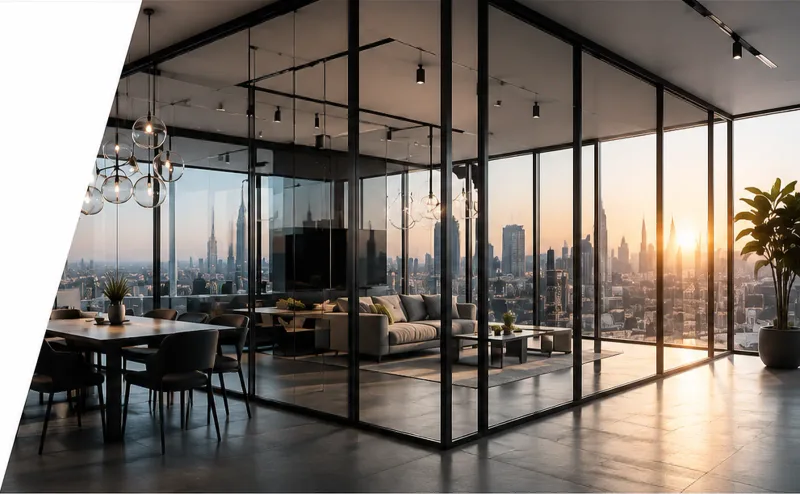
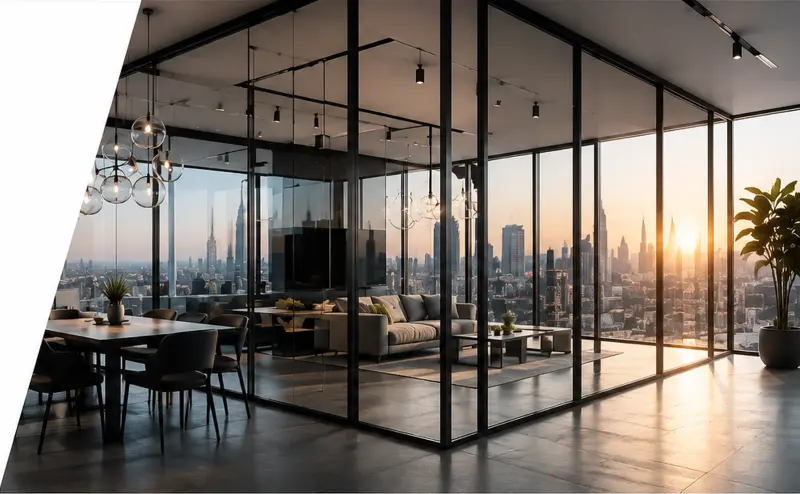
Fix homepage LCP render delay by removing redundant client-side DOM rebuild
Root cause of the ~1070ms LCP element render delay: the homepage category
grid was server-rendered as a placeholder (5 generic cards, href="/catalog/")
and then synchronously rebuilt twice via client-side JS — once via innerHTML
in SiteEnhancements.astro (10 real cards with specific hrefs/SVG icons) and
again via patchCategoryIcons() in HeaderFixes.astro (a third icon swap,
called twice). This forced extra layout/style-recalc passes after initial
paint, delaying when the page reached a "stable" state for LCP measurement,
even though the hero image itself had already finished downloading.

- Render the final category grid (real hrefs, SVG icons, correct layout
  class) directly server-side in index.astro, matching exactly what the
  JS used to produce.
- Remove the now-redundant innerHTML rebuild from SiteEnhancements.astro
  and the duplicate patchCategoryIcons() pass from HeaderFixes.astro.
- Remove 19 confirmed-dead CSS rules from global.css (stale footer-v7/
  footer-final and about-real-client-logos/about-main-clients selectors
  from prior redesigns).
- Re-compress hero-800.webp from the 1600px master (avoiding re-lossy
  re-encoding) from ~49 KiB to ~38.6 KiB with no visible quality loss.

Header/Footer navigation and all other functionality are untouched;
0 build errors, 0 broken internal links, visually verified desktop/mobile.

diff --git a/src/styles/global.css b/src/styles/global.css
@@ -1700,12 +1700,6 @@ body{background:#202020}
 
 /* Responsive fallback only when the screen is genuinely too narrow */
 @media(max-width:1350px){
-  .footer-v7__main{
-    grid-template-columns:repeat(4,minmax(0,1fr))!important;
-  }
-  .footer-v7__brand{
-    grid-column:span 2;
-  }
 }
 
 @media(max-width:900px){
@@ -1716,39 +1710,10 @@ body{background:#202020}
 
 /* Desktop stays one line — no wrapping */
 @media(min-width:1281px){
-  .footer-final__main{
-    grid-template-columns:
-      minmax(220px,1.3fr)
-      repeat(5,minmax(118px,1fr))
-      minmax(200px,1.15fr);
-  }
 }
 
 /* Only tablets/mobile reflow */
 @media(max-width:1280px){
-  .footer-final__benefits{
-    grid-template-columns:repeat(2,1fr);
-  }
-  .footer-final__quote{
-    grid-column:1/-1;
-    margin:12px 0;
-  }
-  .footer-final__main{
-    grid-template-columns:repeat(4,minmax(0,1fr));
-  }
-  .footer-final__brand{
-    grid-column:span 2;
-  }
-  .footer-final__product-grid{
-    grid-template-columns:repeat(4,1fr);
-  }
-  .footer-final__bottom{
-    grid-template-columns:1fr;
-    text-align:center;
-  }
-  .footer-final__bottom>span:last-child{
-    text-align:center;
-  }
 }
 
 @media(max-width:760px){
@@ -5271,20 +5236,6 @@ img[loading="lazy"]{content-visibility:auto}
    --------------------------------------------------------- */
 
 @media(max-width:1100px){
-
-  .about-real-client-logos{
-    grid-template-columns:repeat(2,minmax(0,1fr)) !important;
-  }
-
-  .about-real-client-logos > div{
-    min-height:150px;
-    padding:24px 18px;
-  }
-
-  .about-real-client-logos img{
-    max-width:78% !important;
-    max-height:75px !important;
-  }
 }
 
 /* ---------------------------------------------------------
@@ -5292,22 +5243,6 @@ img[loading="lazy"]{content-visibility:auto}
    --------------------------------------------------------- */
 
 @media(max-width:700px){
-
-  .about-real-client-logos{
-    grid-template-columns:repeat(2,minmax(0,1fr)) !important;
-    width:100% !important;
-    margin-top:28px !important;
-  }
-
-  .about-real-client-logos > div{
-    min-height:112px;
-    padding:18px 12px;
-  }
-
-  .about-real-client-logos img{
-    max-width:86% !important;
-    max-height:58px !important;
-  }
 }
 
 @media(max-width:380px){
@@ -5324,17 +5259,6 @@ img[loading="lazy"]{content-visibility:auto}
 
 /* На мобильном никаких элементов шире viewport */
 @media(max-width:700px){
-  .about-main-clients,
-  .about-main-partners,
-  .about-real-client-logos{
-    max-width:100%;
-    overflow:hidden;
-  }
-
-  .about-main-clients a,
-  .about-main-partners a{
-    white-space:normal;
-  }
 }
 
 
@@ -5585,9 +5509,6 @@ img[loading="lazy"]{content-visibility:auto}
 
 /* ABOUT CLIENTS — CTA TOP RIGHT ABOVE LOGOS */
 @media (min-width:901px){
-  .about-main-clients{
-    position:relative !important;
-  }
 
   .about-main-clients .section-head,
   .about-main-clients [class*="section-head"]{
